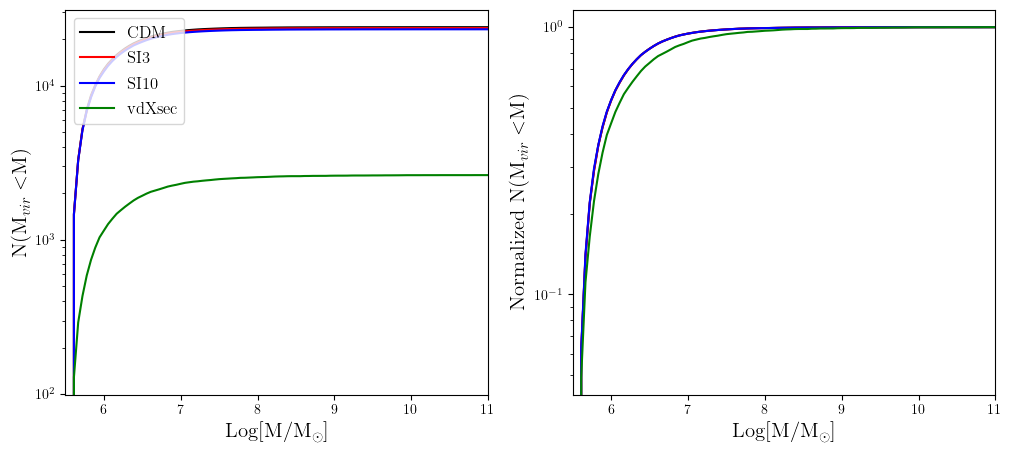
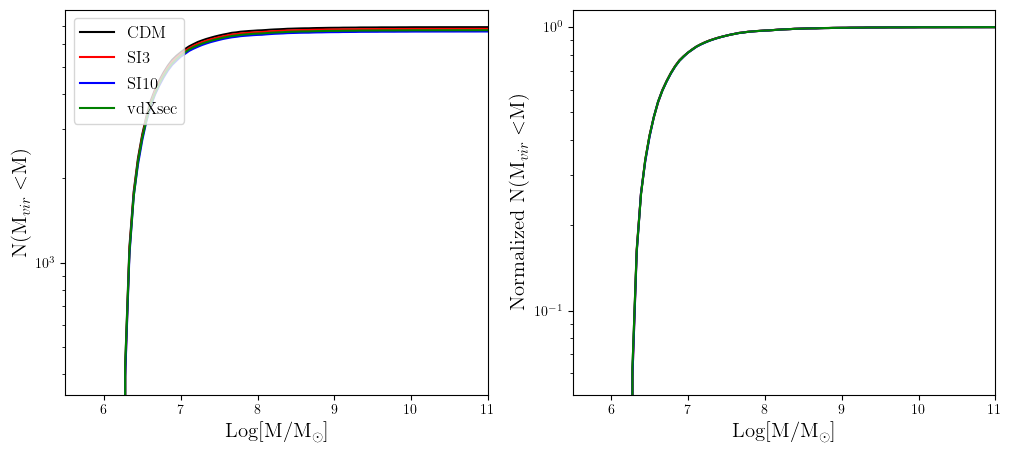
Updated Mass Function Plots

diff --git a/Code/Config.py b/Code/Config.py
@@ -219,6 +219,8 @@ elif os.uname()[1].split('.')[0]=='glaurung':
             'CDM':'/home/vannest/dwarf_volumes/storm.SIDM/storm.cosmo25cmb.4096/storm.cosmo25cmb.4096.004096',
             'SI3':'/home/vannest/dwarf_volumes/storm.SIDM/storm.cosmo25cmbSI3.4096/storm.cosmo25cmbSI3.4096.004096',
             'SI10':'/home/vannest/dwarf_volumes/storm.SIDM/storm.cosmo25cmbSI10.4096/storm.cosmo25cmbSI10.4096.004096',
+            'SI30':'',
+            'SI50':'/home/vannest/dwarf_volumes/storm.SIDM/storm.cosmo25cmbSI50.4096/storm.cosmo25cmbSI50.4096.003936',
             'old_vdXsec':'/home/vannest/dwarf_volumes/storm.SIDM/storm.cosmo25cmbvdXsec.65536/storm.cosmo25cmbvdXsec.65536.065536',
             'vdXsec':'/home/vannest/dwarf_volumes/storm.SIDM/storm.cosmo25cmbvdXsec.4096.VTS/storm.cosmo25cmbvdXsec.4096.VTS.004096'
         },
@@ -226,6 +228,8 @@ elif os.uname()[1].split('.')[0]=='glaurung':
             'CDM':'/home/vannest/dwarf_volumes/storm.SIDM/storm.cosmo25cmb.4096/storm.cosmo25cmb.4096.004096.z0.000.AHF_halos',
             'SI3':'/home/vannest/dwarf_volumes/storm.SIDM/storm.cosmo25cmbSI3.4096/storm.cosmo25cmbSI3.4096.004096.z0.000.AHF_halos',
             'SI10':'/home/vannest/dwarf_volumes/storm.SIDM/storm.cosmo25cmbSI10.4096/storm.cosmo25cmbSI10.4096.004096.z0.000.AHF_halos',
+            'SI30':'',
+            'SI50':'/home/vannest/dwarf_volumes/storm.SIDM/storm.cosmo25cmbSI50.4096/storm.cosmo25cmbSI50.4096.003936.z0.041.AHF_halos',
             'old_vdXsec':'/home/vannest/dwarf_volumes/storm.SIDM/storm.cosmo25cmbvdXsec.65536/storm.cosmo25cmbvdXsec.65536.065536.z0.000.AHF_halos',
             'vdXsec':'/home/vannest/dwarf_volumes/storm.SIDM/storm.cosmo25cmbvdXsec.4096.VTS/storm.cosmo25cmbvdXsec.4096.VTS.004096.z0.000.AHF_halos'
         }

diff --git a/Code/MassFunctionComparison.py b/Code/MassFunctionComparison.py
@@ -10,11 +10,11 @@ args = parser.parse_args()
 
 #Load Data
 N0 = np.load(f'../DataFiles/Npart.{args.simulation}.CDM.{args.redshift}.npy')
-NV = np.load(f'../DataFiles/Npart.{args.simulation}.VTS.{args.redshift}.npy')
+NV = np.load(f'../DataFiles/Npart.{args.simulation}.vdXsec.{args.redshift}.npy')
 M0 = np.load(f'../DataFiles/Mvir.{args.simulation}.CDM.{args.redshift}.npy')
-MV = np.load(f'../DataFiles/Mvir.{args.simulation}.VTS.{args.redshift}.npy')
+MV = np.load(f'../DataFiles/Mvir.{args.simulation}.vdXsec.{args.redshift}.npy')
 C0 = np.load(f'../DataFiles/ContaminationFraction.{args.simulation}.CDM.{args.redshift}.npy')
-CV = np.load(f'../DataFiles/ContaminationFraction.{args.simulation}.VTS.{args.redshift}.npy')
+CV = np.load(f'../DataFiles/ContaminationFraction.{args.simulation}.vdXsec.{args.redshift}.npy')
 if args.simulation=='storm':
     N3 = np.load(f'../DataFiles/Npart.{args.simulation}.SI3.{args.redshift}.npy')
     N10 = np.load(f'../DataFiles/Npart.{args.simulation}.SI10.{args.redshift}.npy')
